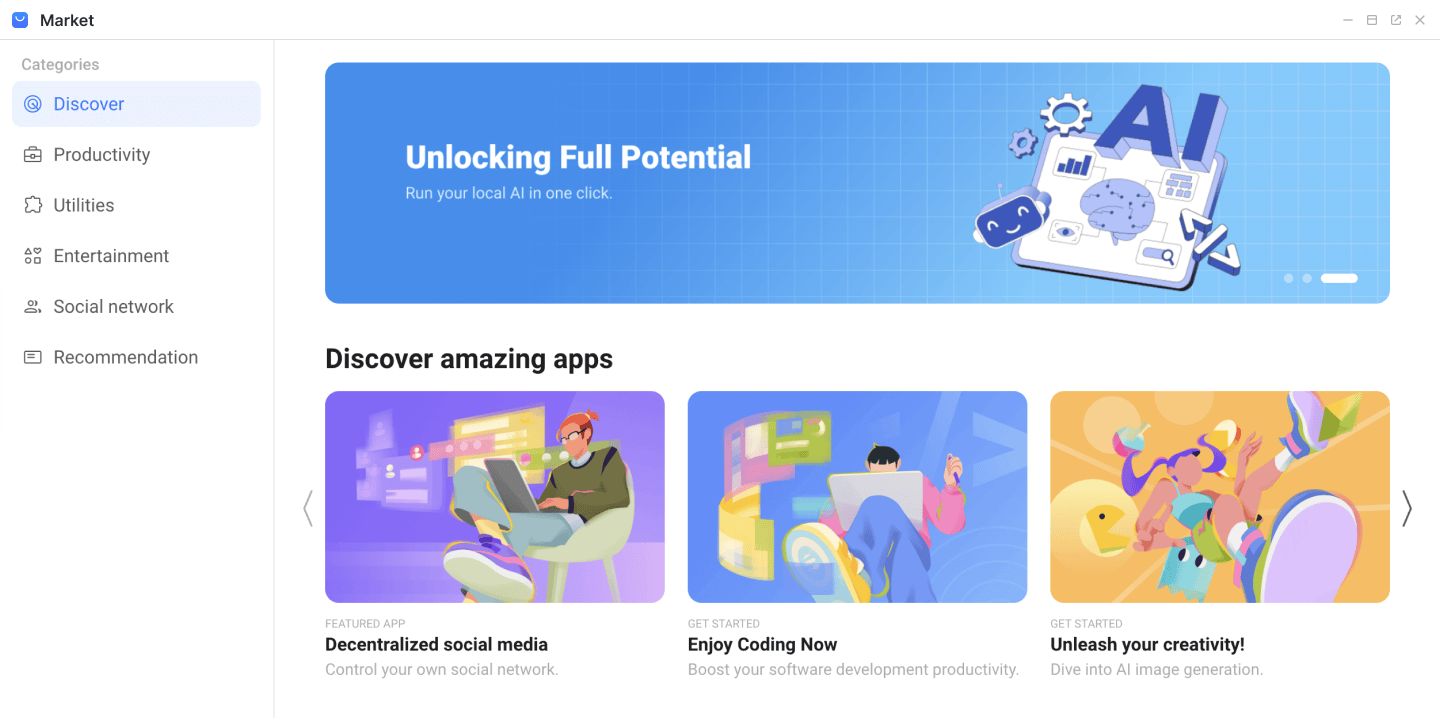
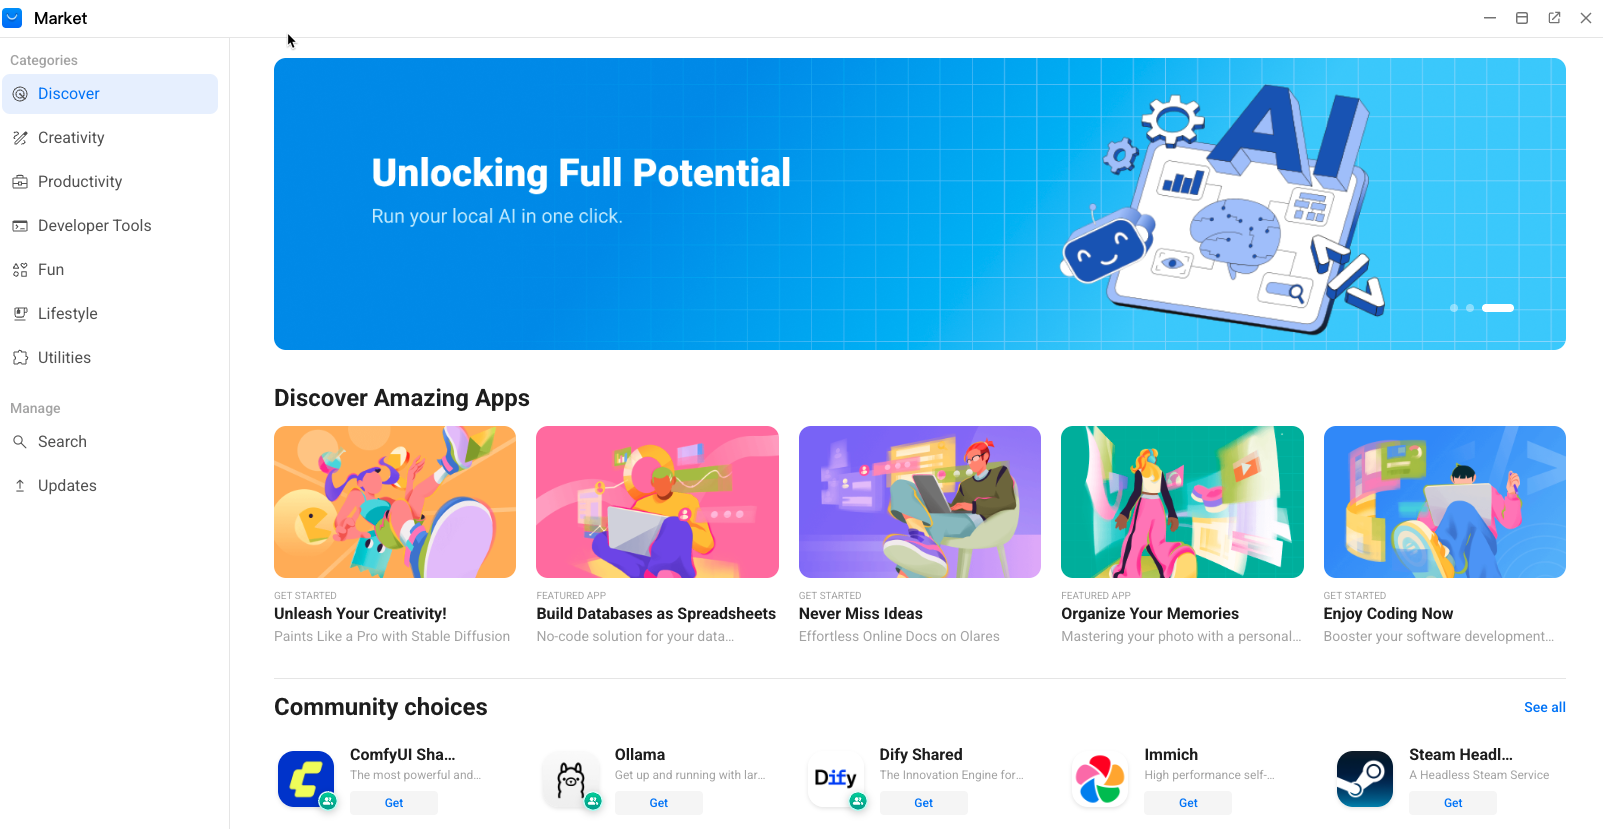
docs: update Market doc with latest enhancements (#1662)

diff --git a/docs/manual/olares/market.md b/docs/manual/olares/market.md
@@ -21,7 +21,12 @@ Before you start, it is recommended to familiarize yourself with a few concepts 
 | [Dependencies](../concepts/application.md#dependencies)                                 | Prerequisite applications that must already be<br/> installed before a user can access an application <br/>that requires them.                                                                              |
 
 ## Find applications
-The Olares Market offers various ways to discover and browse applications:
+The Olares Market offers various ways to discover and browse applications.
+
+![Market](/images/manual/olares/market-discover.png#bordered)
+
+
+### Browse by categories
 
 On **Discover** page:
 * **Featured Applications**: Curated by the editorial team, showcasing trending and seasonally relevant apps.
@@ -30,17 +35,23 @@ On **Discover** page:
 * **Latest apps**: Recently added applications to the market.
 
 You can also browse applications based on their functionality:
-* **Productivity**: Apps for work scenarios and improving efficiency.
-* **Utilities**: Tools for solving specific problems or completing tasks.
-* **Entertainment**: Apps for leisure and enjoyment.
-* **Social network**: Platforms for connecting with others.
-* **Blockchain**: Applications related to blockchain technology.
-* **Recommendation**: Decentralized content recommendation algorithms for Wise.
-    :::info
-    For information on using the recommendation feature in Wise, refer to [discover themed content](./wise/recommend).
-    :::
+* **Creativity**: Apps for creating and publishing digital content, from AI-generated art and 3D models to blogs and design projects.
+* **Productivity**: Apps for team collaboration, project management, data organization, and building custom AI-powered agents.
+* **Lifestyle**: Self-hosted applications for managing your smart home, personal photo libraries, and AI identity.
+* **Fun**: Selfhosted applications for entertainment and fun such as gaming, video streaming, and connecting with people. 
+* **Utilities**: Tools for system management, file sharing, data backup, and running local AI models.
+* **Developer Tools** Toolchain for the software development lifecycle, including code hosting, CI/CD, observability, and database management.
 
-   ![Market](/images/manual/olares/market-discover.png#bordered)
+### Search using keywords 
+
+To search an app in the market:
+
+1. Open the Market app from the Dock or Launchpad.
+2. In the **Manage** sub-memu on the left, click **Search**.
+2. Enter the keywords. The relevant results will appear as you type.
+
+![Search app](/images/manual/olares/search-app.png#bordered)
+
 ## Install applications
 
 1. Open the Market app from the Dock or Launchpad.
@@ -77,21 +88,19 @@ To ensure a shared service is running and accessible within the cluster, follow 
 
 1. Prepare an Olares Application Chart file (in `.zip`, `.tgz`, `.tar`, or `.gz` format).
 2. Open the Market app from the Dock or Launchpad.
-3. Click **My Olares** > **Custom** to see all custom applications.
-4. Click **Upload custom chart** and select chart files.
+3. Click **My Olares** > **Local** to see all custom applications.
+4. Click **Upload custom chart** in the top right corner and select the chart file to install.
 
 ## Update applications
 1. Open the Market app from the Dock or Launchpad.
-2. Click for update notifications besides **My Olares** from the left sidebar.
-    If there is an available update, you should see a label marked with number.
-3. Click **My Olares** > **Available updates** to see all updatable applications.
-4. Click **Update all** to update all applications at once, or update each application individually.
+2. In the left sidebar, click **Updates** under the **Manage** section. If there are available updates, a notification badge will display.
+3. The **Available updates** panel will display the applications with available updates.Click **Update all** to update all applications at once, or update each application individually.
 
 ## Uninstall applications
 
 ### Uninstall from Market
 1. Open the Market app from the Dock or Launchpad.
-2. Click **My Olares** from the left sidebar to view all installed apps.
+2. In the left sidebar, navigate to the **My Olares** section. Use the **Olares** or **Local** tabs to filter and fined your installed applications.
 3. Click <i class="material-symbols-outlined">keyboard_arrow_down</i> next to the application's operation button, and select **Uninstall**.
 
 ### Uninstall from Launchpad
@@ -99,6 +108,15 @@ To ensure a shared service is running and accessible within the cluster, follow 
 2. Click and hold the app icon until all the apps begin to jiggle.
 3. Click <i class="material-symbols-outlined">cancel</i> on the app icon to uninstall it.
 
+## View app operation logs
+
+The application operation log details the processes and statuses of app operations within Market, such as installation, download, update, and uninstallation. To access these logs:
+ 
+1. Open the Market app from the Dock or Launchpad.
+2. In the left sidebar, navigate to **My Olares**.
+3. Click **Logs** in the top right corner. 
+
+You can also click the <i class="material-symbols-outlined">download</i> button to download the logs.
 
 ## FAQ
 